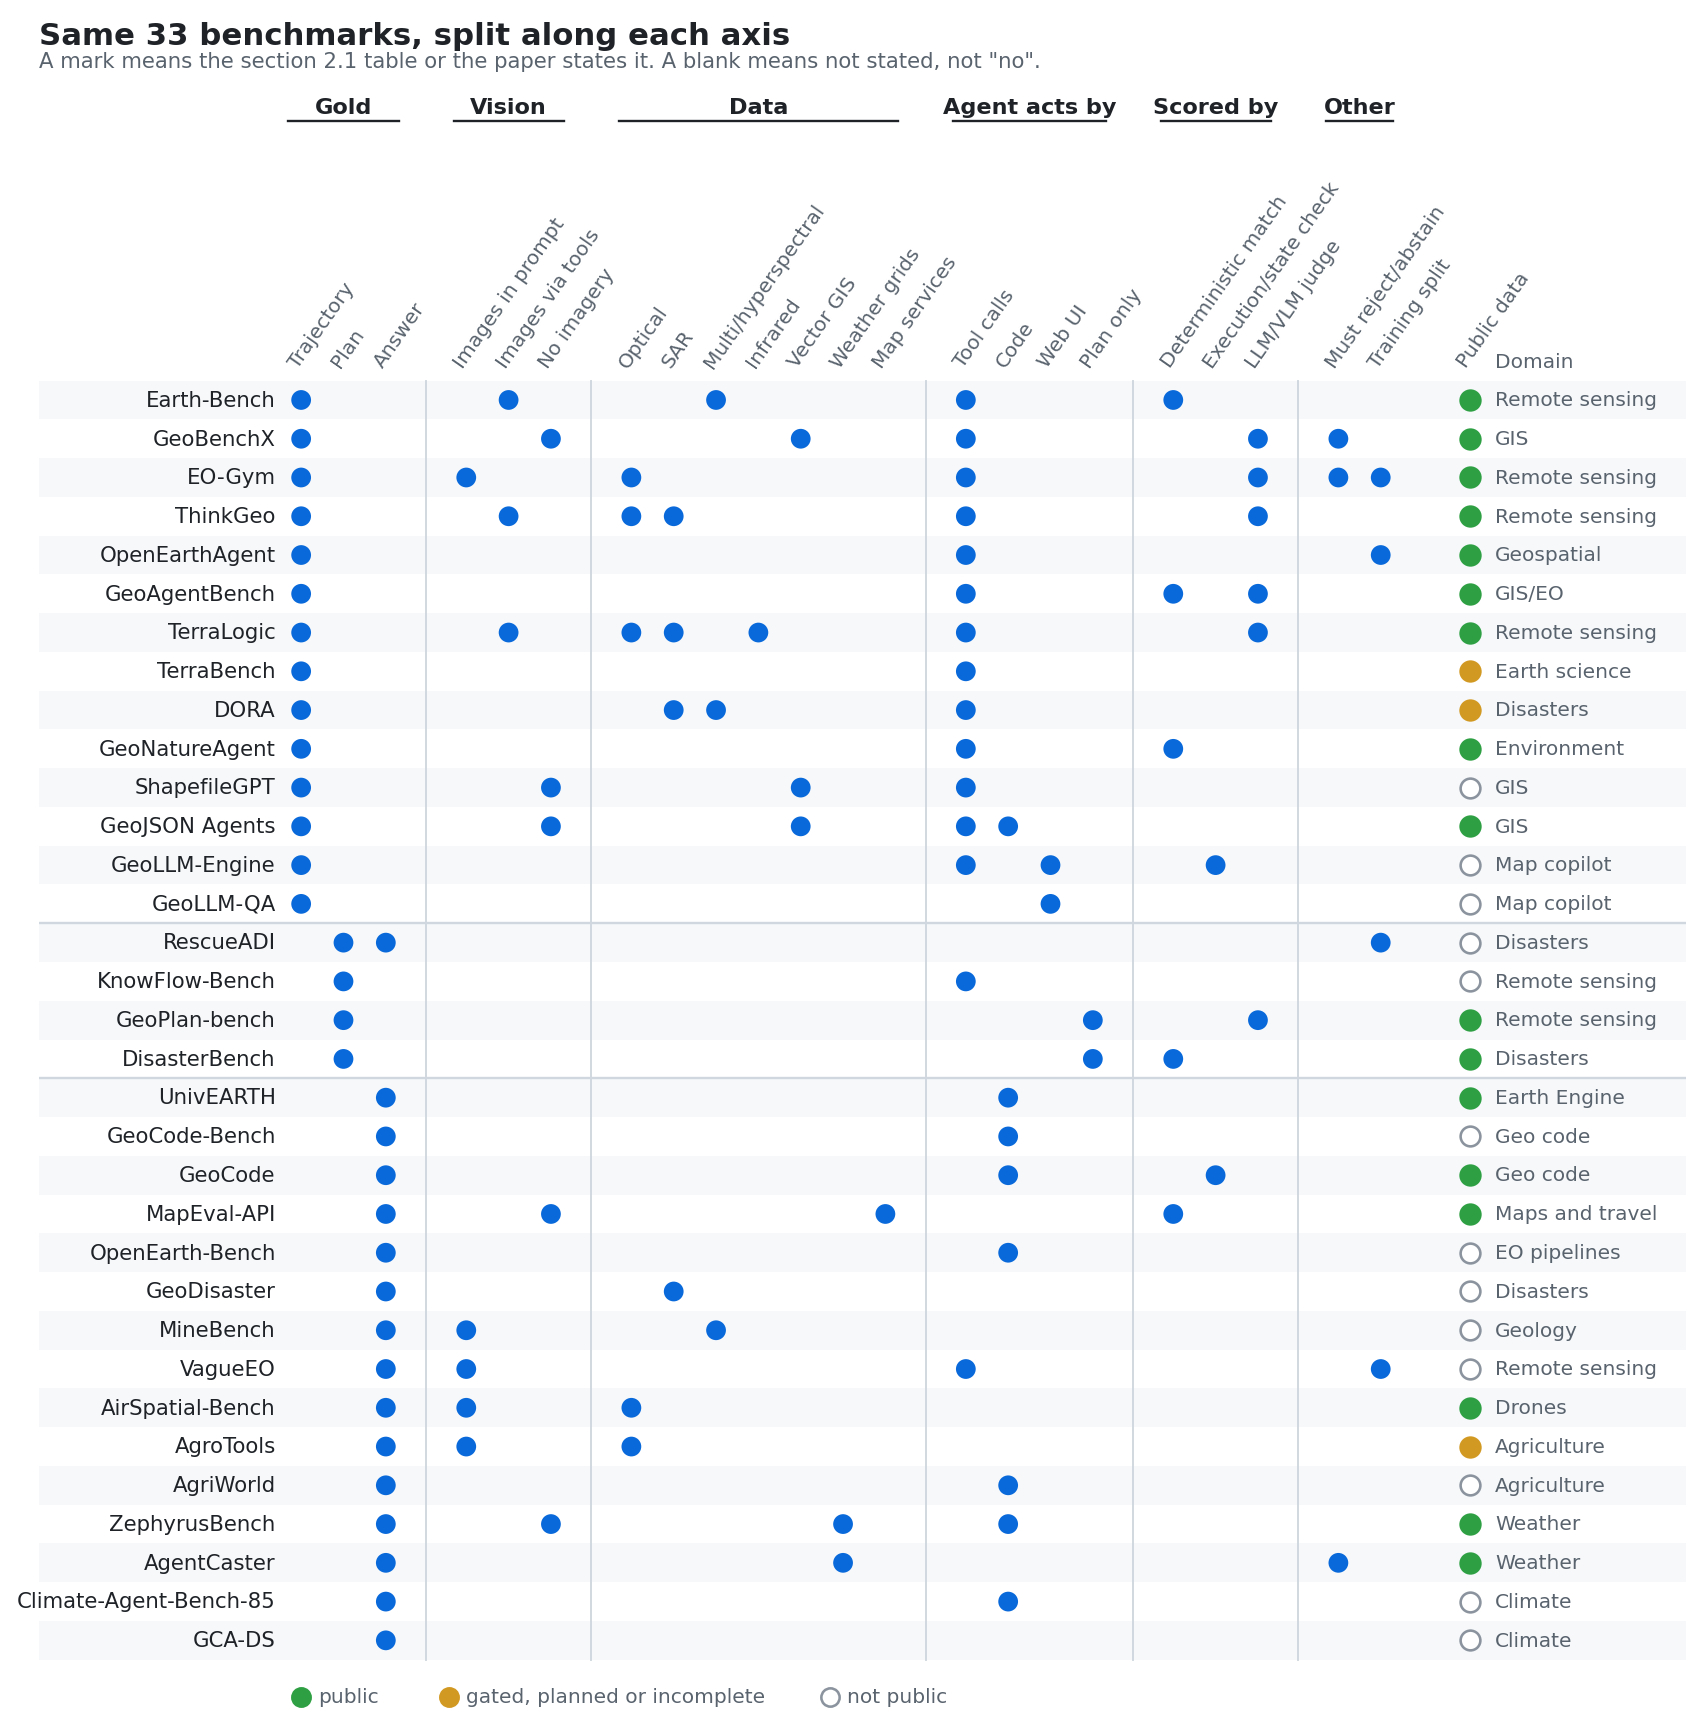
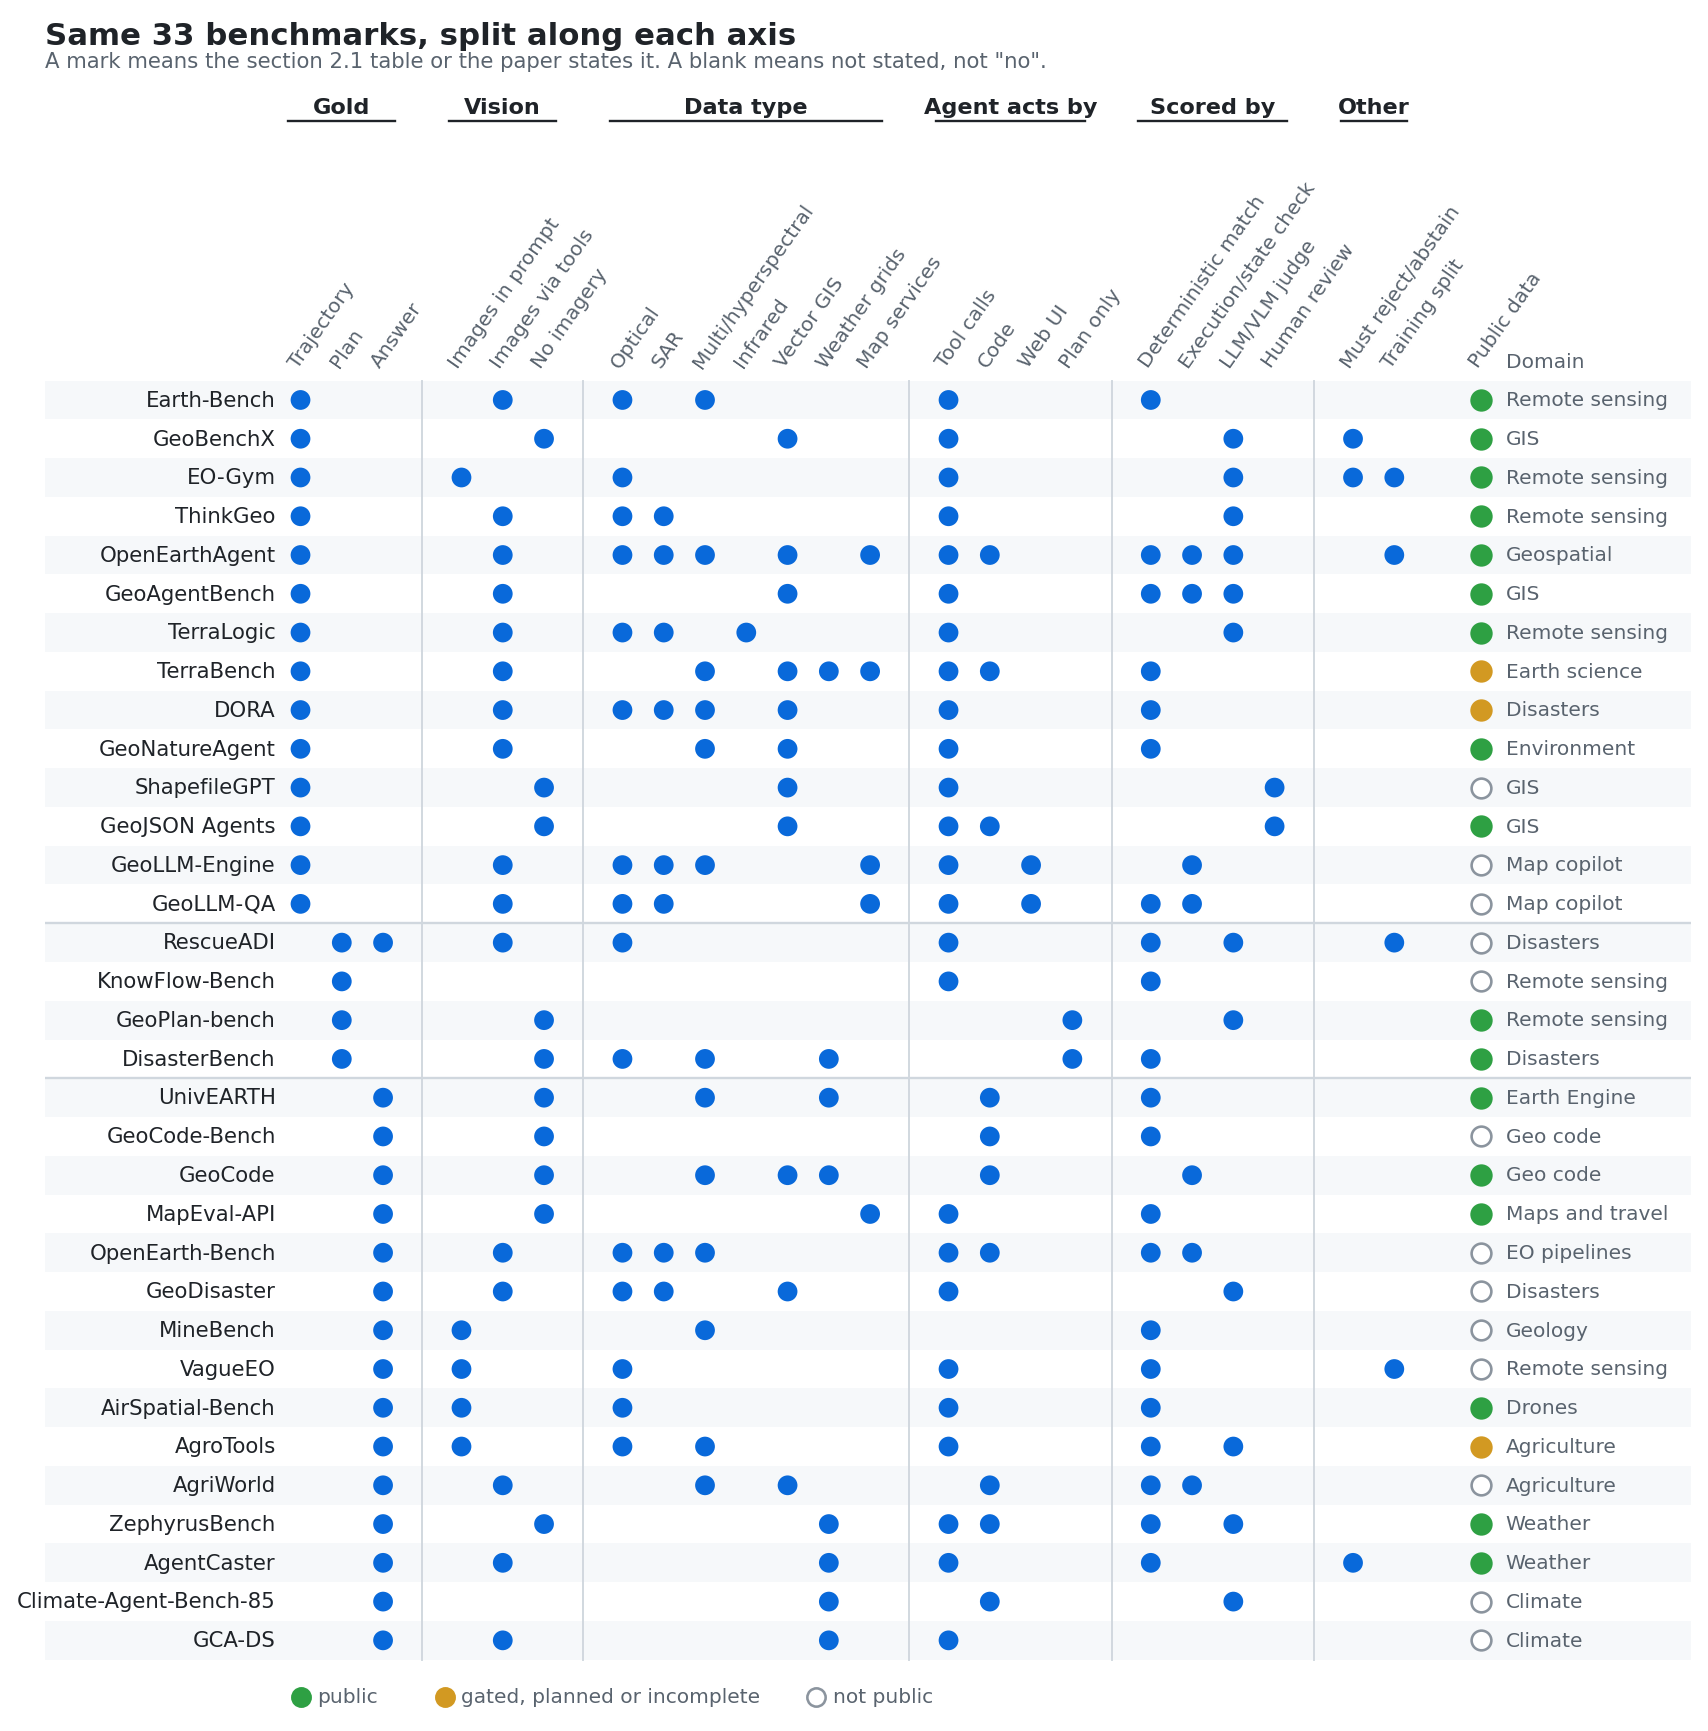
Drop the 2.1 Data column and fill the 2.2 matrix from each paper.
Vision, data type, how the agent acts and who scores now come from the
benchmark papers, so few groups stay empty. ShapefileGPT and GeoJSON
Agents are scored by manual review, so the matrix gains a Human review
column. Public data stays in the figure only.

diff --git a/evaluating-eo-agents-bifold/figures/make_figures.py b/evaluating-eo-agents-bifold/figures/make_figures.py
@@ -297,46 +297,51 @@ def inspect_task():
 AXES = [
     ("Gold", ["Trajectory", "Plan", "Answer"]),
     ("Vision", ["Images in prompt", "Images via tools", "No imagery"]),
-    ("Data", ["Optical", "SAR", "Multi/hyperspectral", "Infrared", "Vector GIS", "Weather grids", "Map services"]),
+    ("Data type", ["Optical", "SAR", "Multi/hyperspectral", "Infrared", "Vector GIS", "Weather grids", "Map services"]),
     ("Agent acts by", ["Tool calls", "Code", "Web UI", "Plan only"]),
-    ("Scored by", ["Deterministic match", "Execution/state check", "LLM/VLM judge"]),
+    ("Scored by", ["Deterministic match", "Execution/state check", "LLM/VLM judge", "Human review"]),
     ("Other", ["Must reject/abstain", "Training split"]),
 ]
 # name: (marks, availability, domain); availability is "public", "partial" (gated, planned, incomplete) or "none".
 BENCHMARKS = [
-    ("Earth-Bench", {"Trajectory", "Images via tools", "Multi/hyperspectral", "Tool calls", "Deterministic match"}, "public", "Remote sensing"),
+    ("Earth-Bench", {"Trajectory", "Images via tools", "Optical", "Multi/hyperspectral", "Tool calls", "Deterministic match"}, "public", "Remote sensing"),
     ("GeoBenchX", {"Trajectory", "No imagery", "Vector GIS", "Tool calls", "LLM/VLM judge", "Must reject/abstain"}, "public", "GIS"),
     ("EO-Gym", {"Trajectory", "Images in prompt", "Optical", "Tool calls", "LLM/VLM judge", "Must reject/abstain", "Training split"}, "public", "Remote sensing"),
     ("ThinkGeo", {"Trajectory", "Images via tools", "Optical", "SAR", "Tool calls", "LLM/VLM judge"}, "public", "Remote sensing"),
-    ("OpenEarthAgent", {"Trajectory", "Tool calls", "Training split"}, "public", "Geospatial"),
-    ("GeoAgentBench", {"Trajectory", "Tool calls", "Deterministic match", "LLM/VLM judge"}, "public", "GIS/EO"),
+    ("OpenEarthAgent", {"Trajectory", "Images via tools", "Optical", "SAR", "Multi/hyperspectral", "Vector GIS", "Map services", "Tool calls", "Code",
+                        "Deterministic match", "Execution/state check", "LLM/VLM judge", "Training split"}, "public", "Geospatial"),
+    ("GeoAgentBench", {"Trajectory", "Images via tools", "Vector GIS", "Tool calls", "Deterministic match", "Execution/state check", "LLM/VLM judge"}, "public", "GIS"),
     ("TerraLogic", {"Trajectory", "Images via tools", "Optical", "SAR", "Infrared", "Tool calls", "LLM/VLM judge"}, "public", "Remote sensing"),
-    ("TerraBench", {"Trajectory", "Tool calls"}, "partial", "Earth science"),
-    ("DORA", {"Trajectory", "SAR", "Multi/hyperspectral", "Tool calls"}, "partial", "Disasters"),
-    ("GeoNatureAgent", {"Trajectory", "Tool calls", "Deterministic match"}, "public", "Environment"),
-    ("ShapefileGPT", {"Trajectory", "No imagery", "Vector GIS", "Tool calls"}, "none", "GIS"),
-    ("GeoJSON Agents", {"Trajectory", "No imagery", "Vector GIS", "Tool calls", "Code"}, "public", "GIS"),
-    ("GeoLLM-Engine", {"Trajectory", "Tool calls", "Web UI", "Execution/state check"}, "none", "Map copilot"),
-    ("GeoLLM-QA", {"Trajectory", "Web UI"}, "none", "Map copilot"),
-    ("RescueADI", {"Plan", "Answer", "Training split"}, "none", "Disasters"),
-    ("KnowFlow-Bench", {"Plan", "Tool calls"}, "none", "Remote sensing"),
-    ("GeoPlan-bench", {"Plan", "Plan only", "LLM/VLM judge"}, "public", "Remote sensing"),
-    ("DisasterBench", {"Plan", "Plan only", "Deterministic match"}, "public", "Disasters"),
-    ("UnivEARTH", {"Answer", "Code"}, "public", "Earth Engine"),
-    ("GeoCode-Bench", {"Answer", "Code"}, "none", "Geo code"),
-    ("GeoCode", {"Answer", "Code", "Execution/state check"}, "public", "Geo code"),
-    ("MapEval-API", {"Answer", "No imagery", "Map services", "Deterministic match"}, "public", "Maps and travel"),
-    ("OpenEarth-Bench", {"Answer", "Code"}, "none", "EO pipelines"),
-    ("GeoDisaster", {"Answer", "SAR"}, "none", "Disasters"),
-    ("MineBench", {"Answer", "Images in prompt", "Multi/hyperspectral"}, "none", "Geology"),
-    ("VagueEO", {"Answer", "Images in prompt", "Tool calls", "Training split"}, "none", "Remote sensing"),
-    ("AirSpatial-Bench", {"Answer", "Images in prompt", "Optical"}, "public", "Drones"),
-    ("AgroTools", {"Answer", "Images in prompt", "Optical"}, "partial", "Agriculture"),
-    ("AgriWorld", {"Answer", "Code"}, "none", "Agriculture"),
-    ("ZephyrusBench", {"Answer", "No imagery", "Weather grids", "Code"}, "public", "Weather"),
-    ("AgentCaster", {"Answer", "Weather grids", "Must reject/abstain"}, "public", "Weather"),
-    ("Climate-Agent-Bench-85", {"Answer", "Code"}, "none", "Climate"),
-    ("GCA-DS", {"Answer"}, "none", "Climate"),
+    ("TerraBench", {"Trajectory", "Images via tools", "Multi/hyperspectral", "Vector GIS", "Weather grids", "Map services", "Tool calls", "Code",
+                    "Deterministic match"}, "partial", "Earth science"),
+    ("DORA", {"Trajectory", "Images via tools", "Optical", "SAR", "Multi/hyperspectral", "Vector GIS", "Tool calls", "Deterministic match"}, "partial", "Disasters"),
+    ("GeoNatureAgent", {"Trajectory", "Images via tools", "Multi/hyperspectral", "Vector GIS", "Tool calls", "Deterministic match"}, "public", "Environment"),
+    ("ShapefileGPT", {"Trajectory", "No imagery", "Vector GIS", "Tool calls", "Human review"}, "none", "GIS"),
+    ("GeoJSON Agents", {"Trajectory", "No imagery", "Vector GIS", "Tool calls", "Code", "Human review"}, "public", "GIS"),
+    ("GeoLLM-Engine", {"Trajectory", "Images via tools", "Optical", "SAR", "Multi/hyperspectral", "Map services", "Tool calls", "Web UI",
+                       "Execution/state check"}, "none", "Map copilot"),
+    ("GeoLLM-QA", {"Trajectory", "Images via tools", "Optical", "SAR", "Map services", "Tool calls", "Web UI", "Deterministic match",
+                   "Execution/state check"}, "none", "Map copilot"),
+    ("RescueADI", {"Plan", "Answer", "Images via tools", "Optical", "Tool calls", "Deterministic match", "LLM/VLM judge", "Training split"}, "none", "Disasters"),
+    ("KnowFlow-Bench", {"Plan", "Tool calls", "Deterministic match"}, "none", "Remote sensing"),
+    ("GeoPlan-bench", {"Plan", "No imagery", "Plan only", "LLM/VLM judge"}, "public", "Remote sensing"),
+    ("DisasterBench", {"Plan", "No imagery", "Optical", "Multi/hyperspectral", "Weather grids", "Plan only", "Deterministic match"}, "public", "Disasters"),
+    ("UnivEARTH", {"Answer", "No imagery", "Multi/hyperspectral", "Weather grids", "Code", "Deterministic match"}, "public", "Earth Engine"),
+    ("GeoCode-Bench", {"Answer", "No imagery", "Code", "Deterministic match"}, "none", "Geo code"),
+    ("GeoCode", {"Answer", "No imagery", "Multi/hyperspectral", "Vector GIS", "Weather grids", "Code", "Execution/state check"}, "public", "Geo code"),
+    ("MapEval-API", {"Answer", "No imagery", "Map services", "Tool calls", "Deterministic match"}, "public", "Maps and travel"),
+    ("OpenEarth-Bench", {"Answer", "Images via tools", "Optical", "SAR", "Multi/hyperspectral", "Tool calls", "Code", "Deterministic match",
+                         "Execution/state check"}, "none", "EO pipelines"),
+    ("GeoDisaster", {"Answer", "Images via tools", "Optical", "SAR", "Vector GIS", "Tool calls", "LLM/VLM judge"}, "none", "Disasters"),
+    ("MineBench", {"Answer", "Images in prompt", "Multi/hyperspectral", "Deterministic match"}, "none", "Geology"),
+    ("VagueEO", {"Answer", "Images in prompt", "Optical", "Tool calls", "Deterministic match", "Training split"}, "none", "Remote sensing"),
+    ("AirSpatial-Bench", {"Answer", "Images in prompt", "Optical", "Tool calls", "Deterministic match"}, "public", "Drones"),
+    ("AgroTools", {"Answer", "Images in prompt", "Optical", "Multi/hyperspectral", "Tool calls", "Deterministic match", "LLM/VLM judge"}, "partial", "Agriculture"),
+    ("AgriWorld", {"Answer", "Images via tools", "Multi/hyperspectral", "Vector GIS", "Code", "Deterministic match", "Execution/state check"}, "none", "Agriculture"),
+    ("ZephyrusBench", {"Answer", "No imagery", "Weather grids", "Tool calls", "Code", "Deterministic match", "LLM/VLM judge"}, "public", "Weather"),
+    ("AgentCaster", {"Answer", "Images via tools", "Weather grids", "Tool calls", "Deterministic match", "Must reject/abstain"}, "public", "Weather"),
+    ("Climate-Agent-Bench-85", {"Answer", "Weather grids", "Code", "LLM/VLM judge"}, "none", "Climate"),
+    ("GCA-DS", {"Answer", "Images via tools", "Weather grids", "Tool calls"}, "none", "Climate"),
 ]
 
 AVAIL = {"public": dict(c=GREEN, edgecolors=GREEN), "partial": dict(c=AMBER, edgecolors=AMBER), "none": dict(c="white", edgecolors=GREY)}
